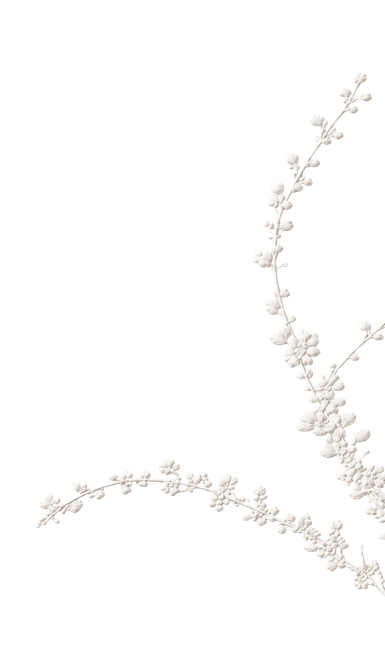
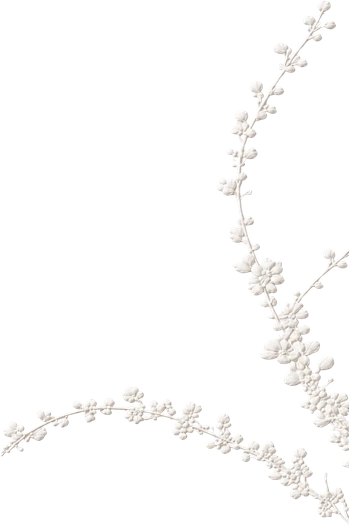
fix: 헤더 확대, 히어로 타이포·이미지 정리, Tailwind 유틸리티 오버라이드 버그 수정
- 헤더 높이 1.5배 확대(64/80px → 96/120px), "설유화" 폰트 크기·자간 조정
- 헤더 높이 변경에 맞춰 스크롤 오프셋·히어로 첫 화면 높이 계산 동기화
- main_branch 배경 이미지를 폭 기준으로 채우고 그라데이션·투명도 오버레이 제거
- main_branch.webp 원본 파일 트리밍(불필요한 투명 여백 제거)
- 히어로 슬로건·서브카피 크기, 줄간격, 위치, CTA 자간 세부 조정
- globals.css의 h1~h4 등 기본 스타일을 @layer base로 감싸 Tailwind 유틸리티
  (leading-*, tracking-* 등)가 항상 무시되던 우선순위 버그 수정

Changed region(s): [[0.0, 0.0914, 1.0, 1.0], [0.8596, 0.0, 0.9742, 0.0914]]

diff --git a/src/presentation/components/sections/HeroSection.tsx b/src/presentation/components/sections/HeroSection.tsx
@@ -11,14 +11,14 @@ interface HeroSectionProps {
 }
 
 /**
- * 첫 화면 높이 — sticky 헤더(모바일 64px / md 80px)를 뺀 값.
+ * 첫 화면 높이 — sticky 헤더(모바일 96px / md 120px)를 뺀 값.
  *
  * 모바일에서 히어로가 하단 가치 스트립까지 스크롤 없이 한 화면에 들어와야 하므로
  * 헤더 높이를 빼둔다. 주소창이 접히고 펴질 때 높이가 출렁이지 않도록 vh가 아닌 svh를 쓴다.
  * lg 이상은 데스크탑 기존 레이아웃 그대로 전체 높이를 쓴다.
  */
 const FIRST_SCREEN =
-  "min-h-[calc(100svh-4rem)] md:min-h-[calc(100svh-5rem)] lg:min-h-screen";
+  "min-h-[calc(100svh-6rem)] md:min-h-[calc(100svh-7.5rem)] lg:min-h-screen";
 
 /**
  * 히어로 — 좌측 브랜드 슬로건, 설유화 브랜치 라인 아트가 배경에 흐른다.
@@ -37,21 +37,19 @@ export function HeroSection({ hero, features }: HeroSectionProps) {
       <Container className={`relative z-10 flex flex-col ${FIRST_SCREEN}`}>
         {/* 위쪽 — 슬로건 + (데스크탑) 브랜치 이미지. */}
         <div className="relative flex flex-1 flex-col items-center lg:flex-row">
-          {/* main_branch 배경 — 모바일 전용. 우측 아래 모서리에 딱 붙인다.
+          {/* main_branch 배경 — 모바일 전용. 폭 기준으로 꽉 채운다.
               - 위쪽 영역 안에만 깔아 두므로 아래 경계가 곧 가치 스트립의 윗선이다.
-                items-end면 그 선에 정확히 맞고 별도 여백 계산이 필요 없다.
               - 우측은 Container의 거터(--gutter)만큼 밖으로 빼 화면 끝까지 닿게 한다.
-              - max-h-full로 높이가 잘리면 object-contain이 상자 안에서 이미지를 가운데로
-                모아 우측·하단에 빈틈이 생긴다. object-right-bottom으로 모서리에 붙인다. */}
-          <div className="absolute inset-y-0 left-0 right-[calc(var(--gutter)*-1)] z-0 flex items-end justify-end lg:hidden">
-            <div className="pointer-events-none absolute inset-0 bg-gradient-to-b from-transparent via-ivory/30 to-ivory/80" />
+              - 폭을 100%로 고정하고 높이는 원본 비율대로 자연스럽게 늘어나게 둔다.
+                박스보다 길어지면 하단에 붙인 채 overflow-hidden으로 위쪽만 잘린다. */}
+          <div className="absolute inset-y-0 left-0 right-[calc(var(--gutter)*-1)] z-0 overflow-hidden lg:hidden">
             <Image
               src="/main_branch.webp"
               alt=""
-              width={600}
-              height={400}
+              width={349}
+              height={525}
               sizes="80vw"
-              className="h-full max-h-full w-full max-w-full object-contain object-right-bottom opacity-70"
+              className="absolute bottom-0 left-0 h-auto w-full"
             />
           </div>
 
@@ -62,22 +60,22 @@ export function HeroSection({ hero, features }: HeroSectionProps) {
               데스크탑은 이미지와 나란히 놓이므로 lg에서 가운데 정렬로 되돌린다. */}
           <div className="relative z-10 flex w-full flex-1 items-start pt-[125px] pb-12 lg:items-center lg:py-0">
             <Reveal>
-              <div className="max-w-xl translate-y-[40px]">
+              <div className="max-w-xl translate-x-[10px] translate-y-[5px]">
                 {/* 하한만 30px로 낮춘다. 6vw가 이기는 500px 이상(=데스크탑 포함)은 그대로다. */}
-                <h1 className="whitespace-pre font-serif text-[clamp(calc(1.875rem-5px),calc(6vw-5px),calc(4.7rem-5px))] font-light leading-[1.22] tracking-[-0.01em] text-charcoal">
+                <h1 className="whitespace-pre font-serif text-[clamp(1.875rem,6vw,4.7rem)] font-light leading-[1.5] tracking-[-0.01em] text-charcoal">
                   {hero.slogan}
                 </h1>
 
-                <div aria-hidden className="my-6 h-px w-12 bg-charcoal/20" />
+                <div aria-hidden className="mt-6 mb-[18px] h-px w-8 bg-charcoal/20" />
 
                 {/* lg 미만에서는 clamp가 늘 하한(16px)에 걸리므로, 2px 줄인 값을 그대로 못박는다. */}
-                <p className="max-w-md whitespace-pre-line text-[0.875rem] leading-[2] text-taupe lg:text-[clamp(1rem,1.2vw,1.2rem)]">
+                <p className="max-w-md whitespace-pre-line text-[calc(0.875rem+1px)] leading-[2] text-taupe lg:text-[clamp(calc(1rem+1px),calc(1.2vw+1px),calc(1.2rem+1px))]">
                   {hero.subcopy}
                 </p>
 
                 <a
                   href={hero.primaryCta.href}
-                  className="group mt-10 inline-flex items-center gap-3 text-xs uppercase tracking-[0.2em] text-charcoal"
+                  className="group mt-12 inline-flex items-center gap-3 text-xs uppercase tracking-[0.12em] text-charcoal"
                 >
                   <span className="border-b border-charcoal/40 pb-1 transition-colors duration-300 group-hover:border-charcoal">
                     {hero.primaryCta.label}
@@ -93,8 +91,8 @@ export function HeroSection({ hero, features }: HeroSectionProps) {
             <Image
               src="/main_branch.webp"
               alt=""
-              width={600}
-              height={400}
+              width={349}
+              height={525}
               sizes="(max-width:1024px) 60vw, 30vw"
               className="h-auto w-full object-contain"
             />

diff --git a/src/app/globals.css b/src/app/globals.css
@@ -75,61 +75,68 @@
   }
 }
 
-*,
-*::before,
-*::after {
-  /* 한글 어절(공백) 단위 줄바꿈 */
-  word-break: keep-all;
-  overflow-wrap: break-word;
-}
-
-html {
-  scroll-behavior: smooth;
-  /* sticky 헤더 높이(모바일 64px)만큼 앵커 이동 시 여백 확보 */
-  scroll-padding-top: 4rem;
-}
-@media (min-width: 768px) {
-  html {
-    /* md 이상 헤더 높이 80px */
-    scroll-padding-top: 5rem;
+/* Tailwind 유틸리티(leading-*, tracking-* 등)는 @layer utilities에 있어서
+   레이어 순서상 항상 이긴다. 이 기본값들도 @layer base에 넣어야 컴포넌트에서
+   leading-[2] 같은 유틸리티 클래스로 덮어쓸 수 있다 — 레이어 밖(unlayered)
+   CSS는 명시도와 무관하게 어떤 레이어보다도 우선하므로, 여기 두면 아무리
+   유틸리티 값을 바꿔도 적용되지 않는다. */
+@layer base {
+  *,
+  *::before,
+  *::after {
+    /* 한글 어절(공백) 단위 줄바꿈 */
+    word-break: keep-all;
+    overflow-wrap: break-word;
   }
-}
 
-body {
-  background-color: var(--color-ivory);
-  background-image: var(--paper-texture);
-  background-size: var(--paper-texture-size);
-  color: var(--color-charcoal);
-  font-family: var(--font-sans);
-  font-weight: 400;
-  line-height: 1.8;
-  -webkit-font-smoothing: antialiased;
-  text-rendering: optimizeLegibility;
-}
+  html {
+    scroll-behavior: smooth;
+    /* sticky 헤더 높이(모바일 96px)만큼 앵커 이동 시 여백 확보 */
+    scroll-padding-top: 6rem;
+  }
+  @media (min-width: 768px) {
+    html {
+      /* md 이상 헤더 높이 120px */
+      scroll-padding-top: 7.5rem;
+    }
+  }
 
-h1,
-h2,
-h3,
-h4 {
-  font-family: var(--font-serif);
-  font-weight: 400;
-  line-height: 1.2;
-  letter-spacing: -0.01em;
-  color: var(--color-charcoal);
-}
+  body {
+    background-color: var(--color-ivory);
+    background-image: var(--paper-texture);
+    background-size: var(--paper-texture-size);
+    color: var(--color-charcoal);
+    font-family: var(--font-sans);
+    font-weight: 400;
+    line-height: 1.8;
+    -webkit-font-smoothing: antialiased;
+    text-rendering: optimizeLegibility;
+  }
 
-p {
-  max-width: 60ch;
-}
+  h1,
+  h2,
+  h3,
+  h4 {
+    font-family: var(--font-serif);
+    font-weight: 400;
+    line-height: 1.2;
+    letter-spacing: -0.01em;
+    color: var(--color-charcoal);
+  }
 
-::selection {
-  background-color: var(--color-gold);
-  color: var(--color-ivory);
-}
+  p {
+    max-width: 60ch;
+  }
 
-:focus-visible {
-  outline: 2px solid var(--color-gold);
-  outline-offset: 3px;
+  ::selection {
+    background-color: var(--color-gold);
+    color: var(--color-ivory);
+  }
+
+  :focus-visible {
+    outline: 2px solid var(--color-gold);
+    outline-offset: 3px;
+  }
 }
 
 /* ============================================================

diff --git a/src/presentation/components/layout/SiteHeader.tsx b/src/presentation/components/layout/SiteHeader.tsx
@@ -58,9 +58,9 @@ export function SiteHeader() {
   }, [dropdownOpen]);
 
   return (
-    <header className="sticky top-0 z-50 border-b border-line/60 bg-ivory">
+    <header className="sticky top-0 z-50 bg-ivory">
       <Container>
-        <div className="flex h-16 items-center justify-between md:h-20">
+        <div className="flex h-24 items-center justify-between md:h-[120px]">
           {/* 워드마크 + 엠블럼 */}
           <Link
             href="/#top"
@@ -68,10 +68,10 @@ export function SiteHeader() {
             aria-label="설유화 홈"
           >
             <span className="flex flex-col leading-none">
-              <span className="font-serif text-xl font-light tracking-tight text-charcoal">
+              <span className="font-serif text-3xl font-light tracking-[0.15em] text-charcoal">
                 설유화
               </span>
-              <span className="mt-1 text-[0.55rem] uppercase tracking-[0.25em] text-taupe">
+              <span className="mt-1 text-[0.7rem] uppercase tracking-[0.25em] text-taupe">
                 Sullyuwha
               </span>
             </span>
